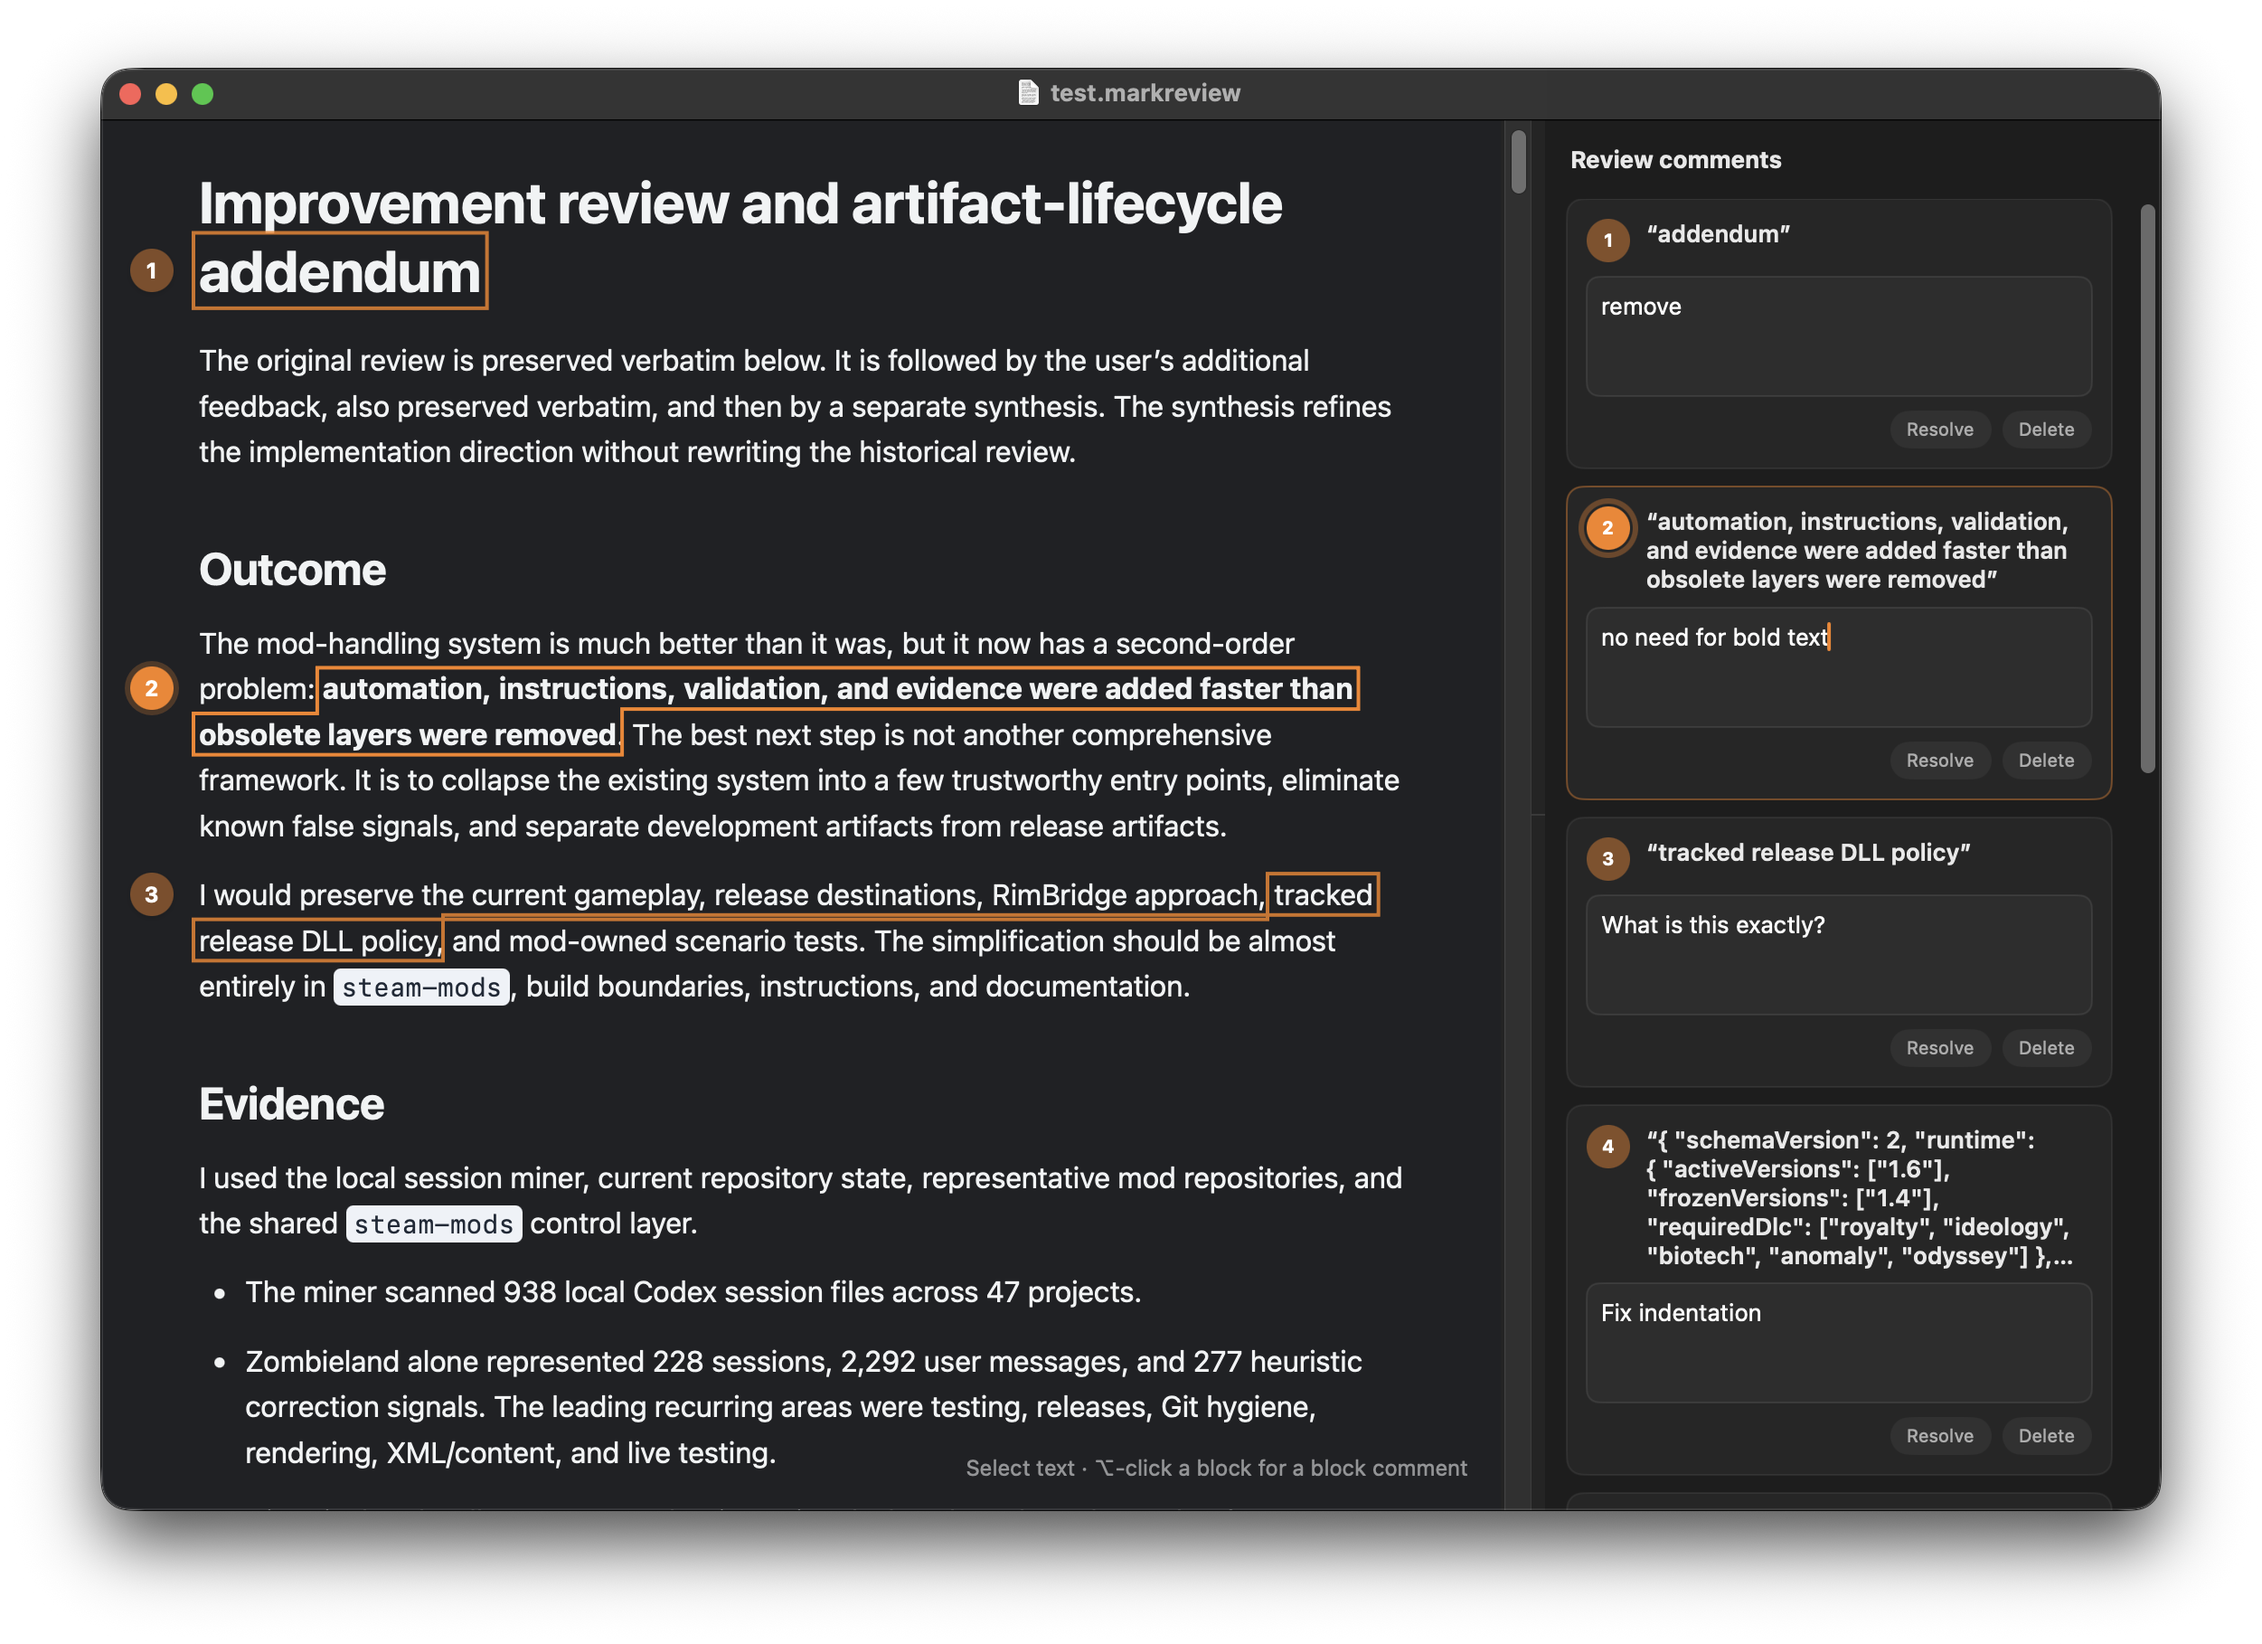
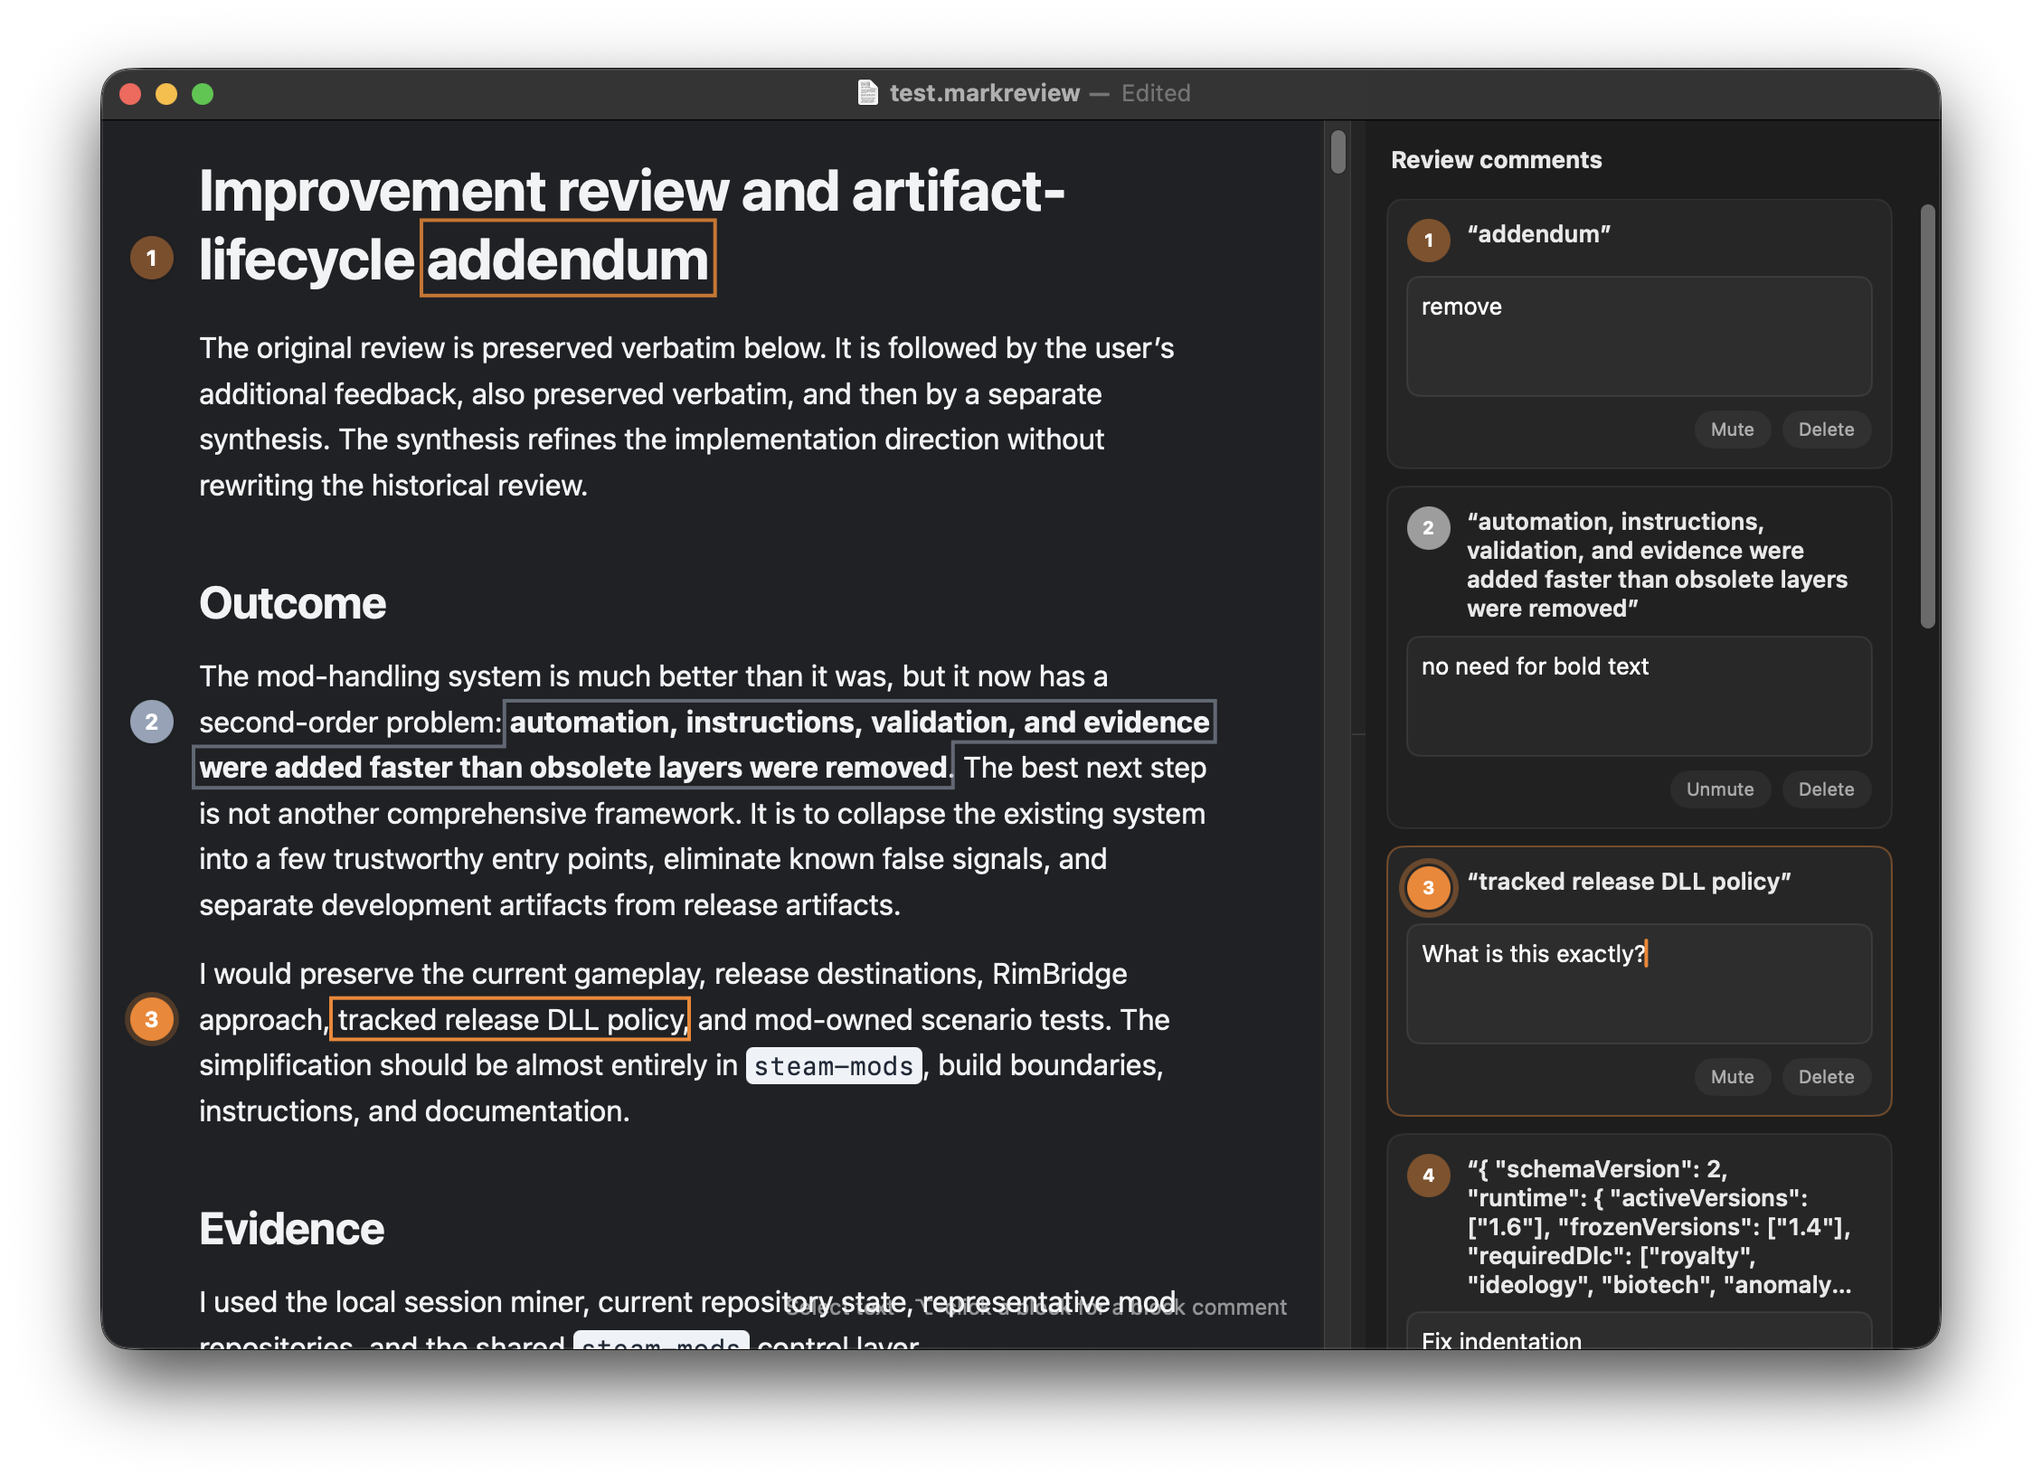
Protect Markdown sources during review saves

diff --git a/Sources/MarkReview/WindowRestoration.swift b/Sources/MarkReview/WindowRestoration.swift
@@ -1,6 +1,7 @@
 import AppKit
 import ObjectiveC
 import SwiftUI
+import UniformTypeIdentifiers
 
 @MainActor
 final class MarkReviewDocumentChangeState {
@@ -36,10 +37,10 @@ final class DocumentSaveDelegate: NSObject {
             self,
             .OBJC_ASSOCIATION_RETAIN_NONATOMIC
         )
-        document.save(
-            withDelegate: self,
-            didSave: #selector(documentDidSave(_:didSave:contextInfo:)),
-            contextInfo: nil
+        MarkReviewSavePolicy.save(
+            document,
+            delegate: self,
+            didSave: #selector(documentDidSave(_:didSave:contextInfo:))
         )
     }
 
@@ -53,6 +54,35 @@ final class DocumentSaveDelegate: NSObject {
             document.updateChangeCount(.changeCleared)
         }
         objc_setAssociatedObject(document, &documentSaveDelegateKey, nil, .OBJC_ASSOCIATION_ASSIGN)
+    }
+}
+
+@MainActor
+enum MarkReviewSavePolicy {
+    static func requiresReviewDestination(_ fileURL: URL?) -> Bool {
+        fileURL?.pathExtension.caseInsensitiveCompare("md") == .orderedSame
+    }
+
+    static func prepareReviewDestination(for document: NSDocument) {
+        document.fileType = UTType.markReview.identifier
+    }
+
+    static func save(_ document: NSDocument, delegate: AnyObject, didSave selector: Selector) {
+        if requiresReviewDestination(document.fileURL) {
+            prepareReviewDestination(for: document)
+            document.runModalSavePanel(
+                for: .saveAsOperation,
+                delegate: delegate,
+                didSave: selector,
+                contextInfo: nil
+            )
+        } else {
+            document.save(
+                withDelegate: delegate,
+                didSave: selector,
+                contextInfo: nil
+            )
+        }
     }
 }
 
@@ -130,10 +160,10 @@ final class ReviewWindowCloseGuard: NSObject, NSWindowDelegate {
         if let window {
             pendingWindow = window
         }
-        document.save(
-            withDelegate: self,
-            didSave: #selector(documentDidSave(_:didSave:contextInfo:)),
-            contextInfo: nil
+        MarkReviewSavePolicy.save(
+            document,
+            delegate: self,
+            didSave: #selector(documentDidSave(_:didSave:contextInfo:))
         )
     }
 

diff --git a/Tests/MarkReviewTests/MarkReviewTests.swift b/Tests/MarkReviewTests/MarkReviewTests.swift
@@ -2,6 +2,7 @@ import Foundation
 import AppKit
 import Combine
 import Testing
+import UniformTypeIdentifiers
 @testable import MarkReview
 
 @Test("review document round-trips with annotations")
@@ -85,6 +86,39 @@ func documentContentTypesKeepMarkdownImportOnly() {
     #expect(MarkReviewDocument.readableContentTypes.contains(.markReviewMarkdown))
     #expect(MarkReviewDocument.readableContentTypes.contains(.markReview))
     #expect(MarkReviewDocument.writableContentTypes == [.markReview])
+}
+
+@Test("Markdown sources always require a review destination")
+@MainActor
+func markdownSourcesRequireReviewDestination() {
+    #expect(MarkReviewSavePolicy.requiresReviewDestination(URL(fileURLWithPath: "/tmp/Review.md")))
+    #expect(MarkReviewSavePolicy.requiresReviewDestination(URL(fileURLWithPath: "/tmp/Review.MD")))
+    #expect(!MarkReviewSavePolicy.requiresReviewDestination(URL(fileURLWithPath: "/tmp/Review.markreview")))
+    #expect(!MarkReviewSavePolicy.requiresReviewDestination(nil))
+}
+
+@Test("saving a Markdown source switches the native writable type")
+@MainActor
+func markdownSavePolicySelectsReviewType() {
+    let document = NSDocument()
+    document.fileURL = URL(fileURLWithPath: "/tmp/Review.md")
+    document.fileType = UTType.markReviewMarkdown.identifier
+
+    #expect(MarkReviewSavePolicy.requiresReviewDestination(document.fileURL))
+    MarkReviewSavePolicy.prepareReviewDestination(for: document)
+    #expect(document.fileType == UTType.markReview.identifier)
+    #expect(document.fileURL?.pathExtension == "md")
+}
+
+@Test("the serializer refuses Markdown destinations")
+func serializerRefusesMarkdownDestinations() throws {
+    let document = MarkReviewDocument(title: "Review", originalMarkdown: "# Source")
+
+    #expect(throws: MarkReviewDocumentWriteError.self) {
+        _ = try document.snapshot(contentType: .markReviewMarkdown)
+    }
+    let snapshot = try document.snapshot(contentType: .markReview)
+    #expect(snapshot.originalMarkdown == "# Source")
 }
 
 @Test("renumbering follows Markdown order")

diff --git a/Sources/MarkReview/DocumentSupport.swift b/Sources/MarkReview/DocumentSupport.swift
@@ -38,12 +38,28 @@ extension MarkReviewDocument {
     }
 
     public func snapshot(contentType: UTType) throws -> MarkReviewDocument {
-        copy()
+        try Self.requireWritableReviewType(contentType)
+        return copy()
     }
 
     public func fileWrapper(snapshot: MarkReviewDocument, configuration: FileDocumentWriteConfiguration) throws -> FileWrapper {
+        try Self.requireWritableReviewType(configuration.contentType)
         let data = try JSONEncoder.markReview.encode(snapshot)
         return FileWrapper(regularFileWithContents: data)
+    }
+
+    private static func requireWritableReviewType(_ contentType: UTType) throws {
+        guard contentType.conforms(to: .markReview) else {
+            throw MarkReviewDocumentWriteError.markdownIsReadOnly
+        }
+    }
+}
+
+enum MarkReviewDocumentWriteError: LocalizedError {
+    case markdownIsReadOnly
+
+    var errorDescription: String? {
+        "Markdown files are read-only in MarkReview. Save the review as a .markreview file."
     }
 }
 

diff --git a/Sources/MarkReview/ContentView.swift b/Sources/MarkReview/ContentView.swift
@@ -806,7 +806,10 @@ struct ContentView: View {
         let wasDirty = changeState.isDirty(document.id)
         changeState.markDirty(document.id)
         if !wasDirty {
-            activeNativeDocument()?.updateChangeCount(.changeDone)
+            let nativeDocument = activeNativeDocument()
+            if !MarkReviewSavePolicy.requiresReviewDestination(nativeDocument?.fileURL) {
+                nativeDocument?.updateChangeCount(.changeDone)
+            }
         }
         documentRevision &+= 1
     }

diff --git a/README.md b/README.md
@@ -18,7 +18,7 @@ prompt is ready.
 
 MarkReview makes that work feel like reviewing a document:
 
-- Open any Markdown file. The original file stays unchanged.
+- Open any Markdown file as a read-only source. MarkReview never overwrites it.
 - Select text to add a comment, or Option-click a block to comment on the whole
   paragraph, heading, list item, or code block.
 - See every comment beside the passage it refers to.
@@ -26,7 +26,9 @@ MarkReview makes that work feel like reviewing a document:
   act on it.
 - Close the app and continue another day. Your saved review and open windows
   come back when you return.
-- Save the review and send the `.markreview` file to the agent.
+- The first Save asks where to create the `.markreview` file. Later saves update
+  that review file directly.
+- Send the `.markreview` file to the agent.
 
 ## A complete prompt in one file
 
